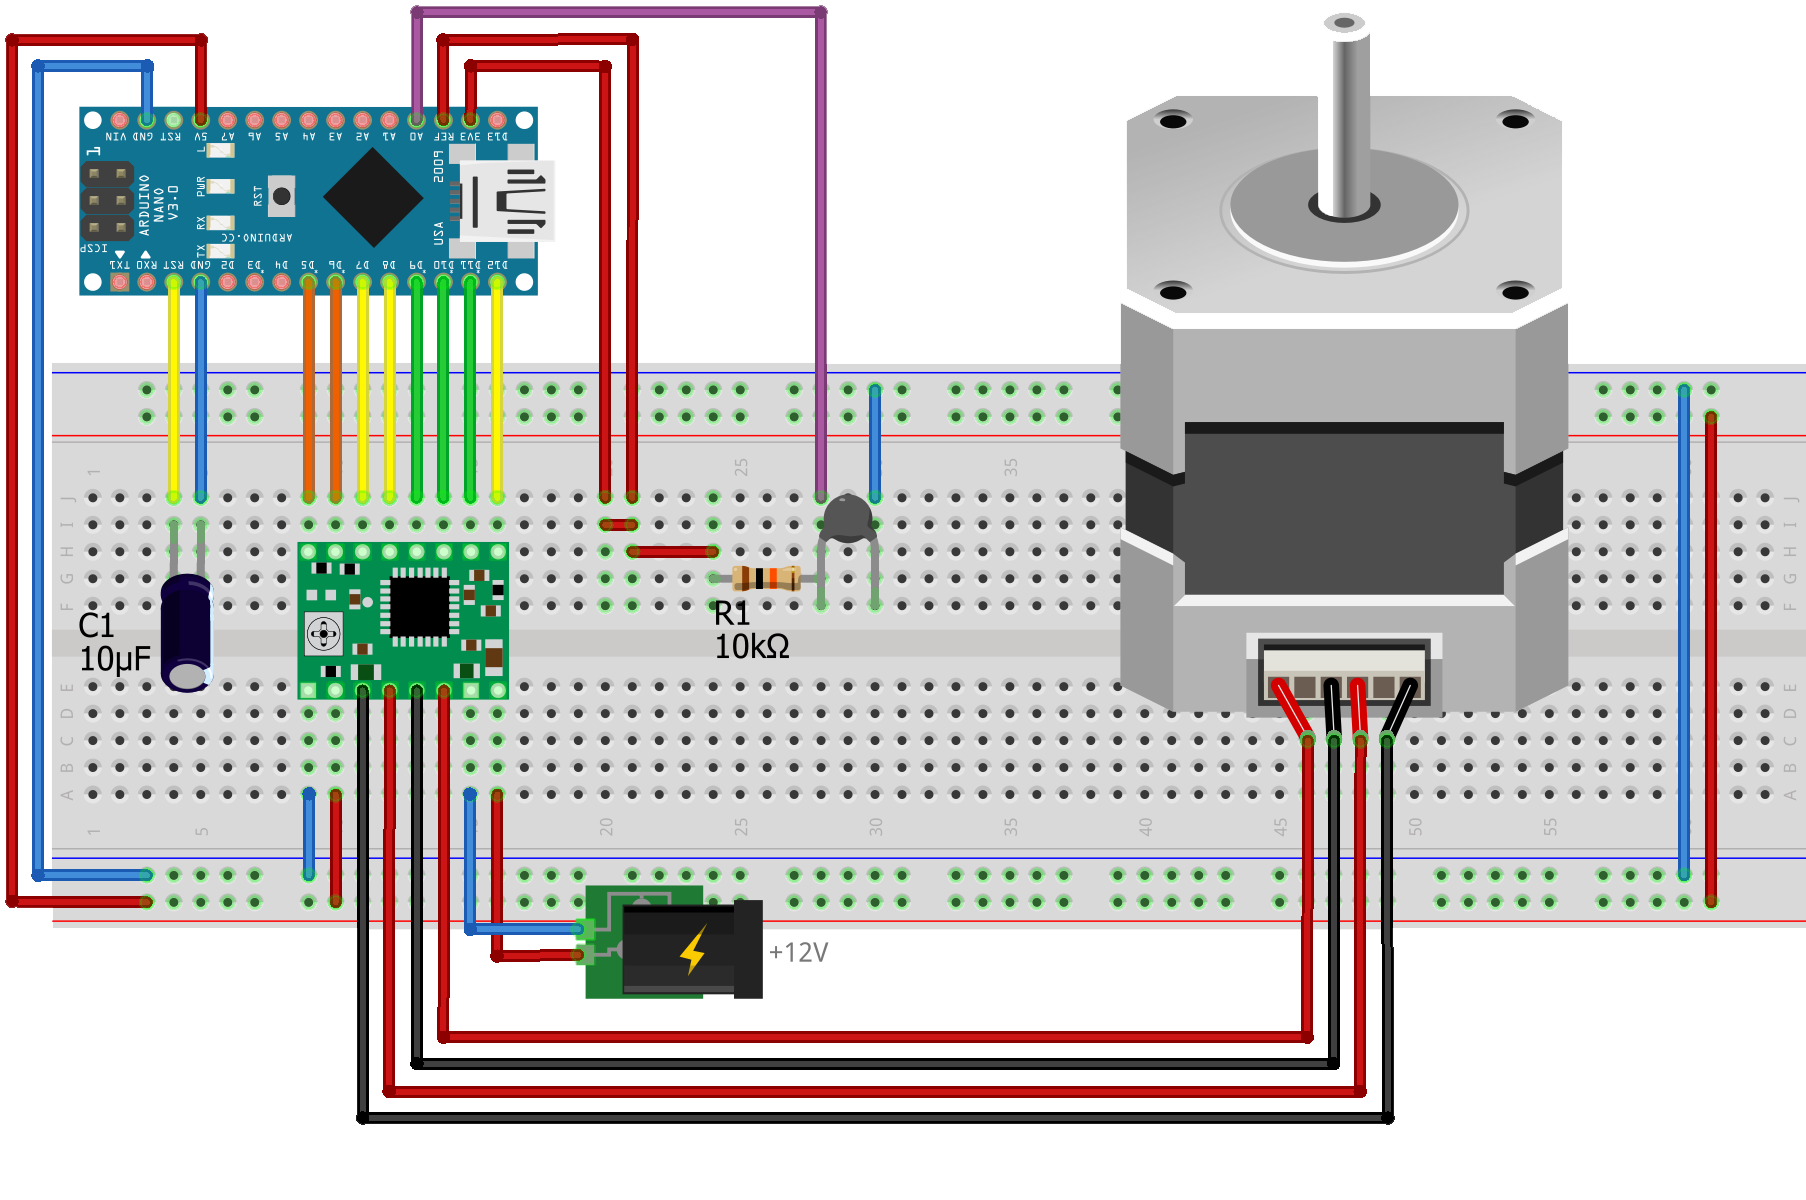
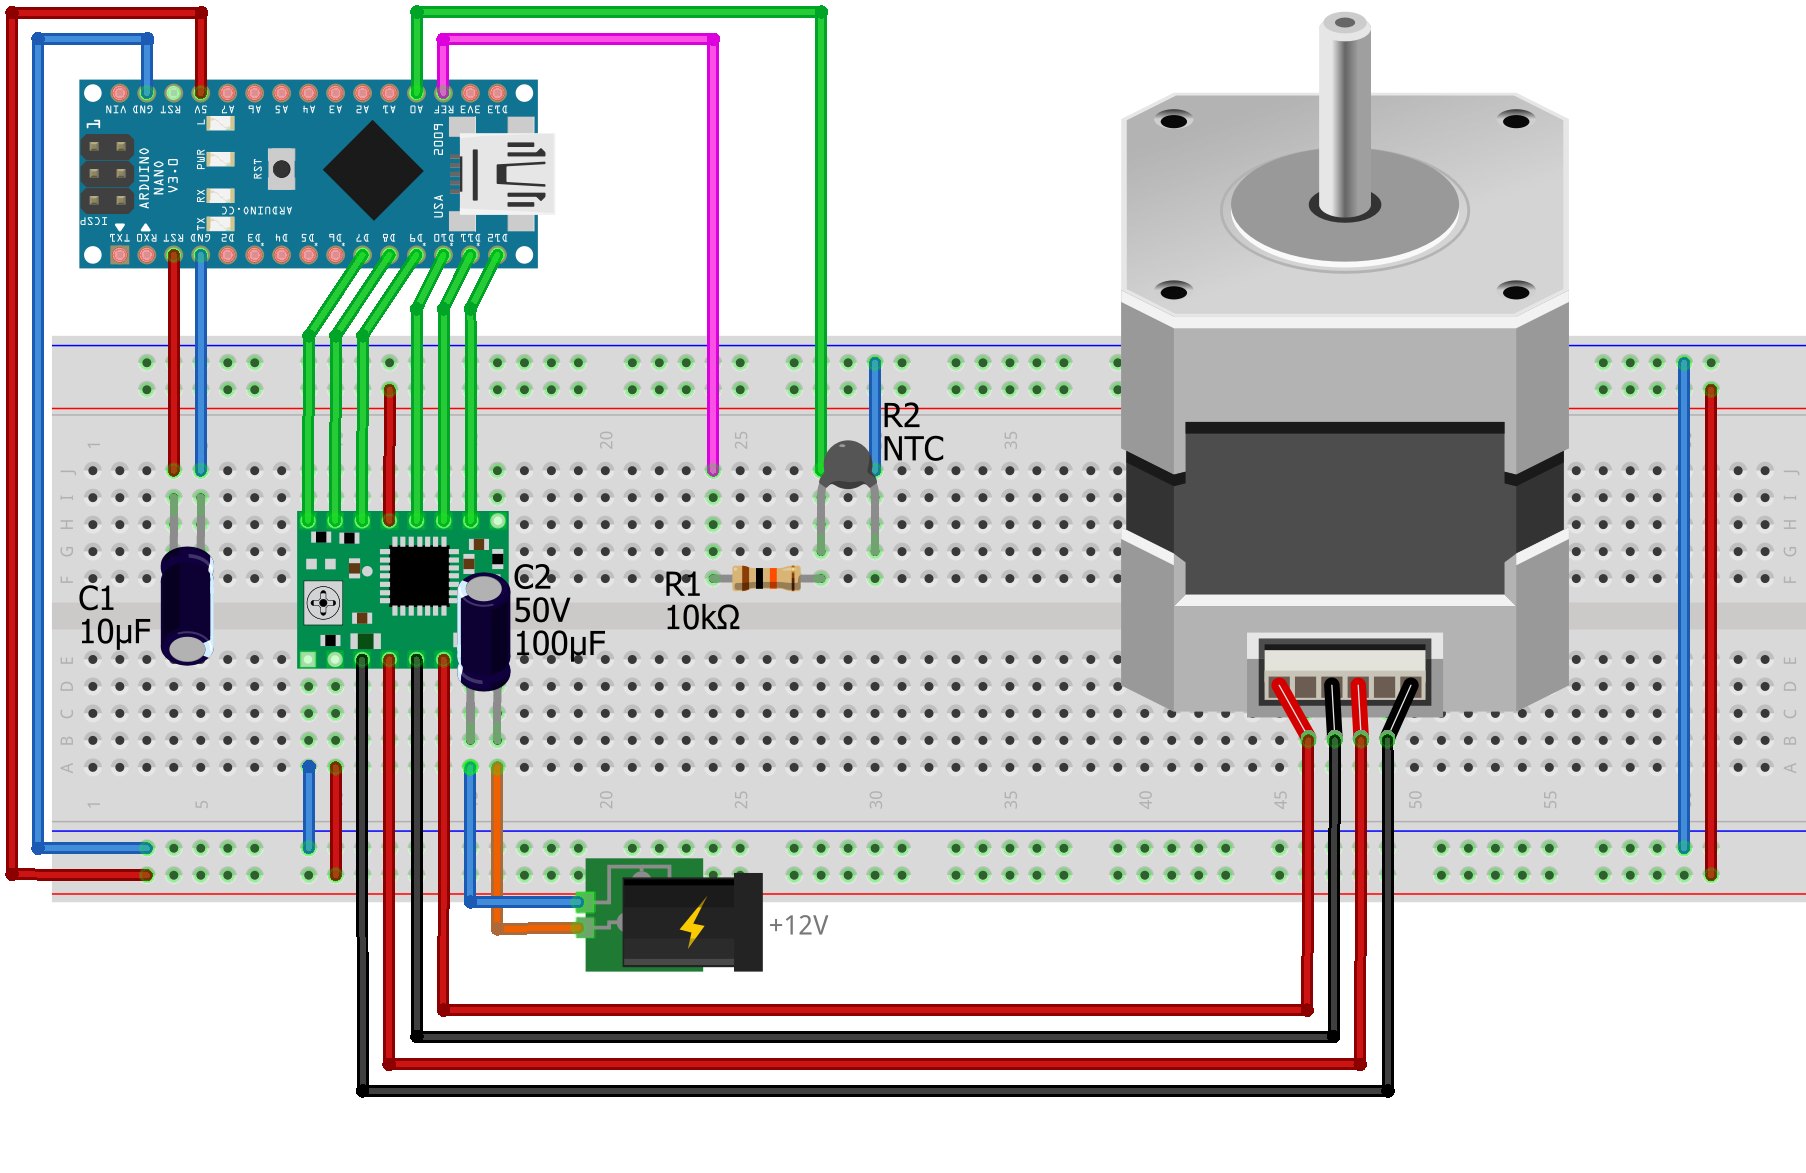
Update the documentation

diff --git a/README.md b/README.md
@@ -2,8 +2,6 @@
 
 [![Donate](https://img.shields.io/badge/donate-a_beer-red.svg)](https://www.paypal.com/cgi-bin/webscr?cmd=_s-xclick&hosted_button_id=D5XZ7QFLP8LXE) [![Build Status](https://travis-ci.org/jbrazio/ardufocus.svg?branch=master)](https://travis-ci.org/jbrazio/ardufocus) [![GitHub issues](https://img.shields.io/github/issues/jbrazio/ardufocus.svg)](https://github.com/jbrazio/ardufocus/issues) [![GitHub stars](https://img.shields.io/github/stars/jbrazio/ardufocus.svg)](https://github.com/jbrazio/ardufocus/stargazers) [![GitHub forks](https://img.shields.io/github/forks/jbrazio/ardufocus.svg)](https://github.com/jbrazio/ardufocus/network) [![Download beta](https://img.shields.io/badge/download-latest_beta-yellow.svg)](https://github.com/jbrazio/ardufocus/archive/master.zip)
 
-
-
 Ardufocus is a full open source [Moonlite][moonlite] compatible automatic focus controller.
 The source is still under heavy development so things move around a bit.
 
@@ -43,7 +41,8 @@ I have no issues driving an ASI1600MMC-Cool with a ZWO EFW8 and a 0.85x field fl
 
 Common components:
 - 1x [Arduino Nano]
-- 1x [Electrolytic capacitor 10uF]
+- 1x [Electrolytic capacitor 10uF 25V]
+- 1x [Electrolytic capacitor 100uF 50V]
 - 1x [NTC 10K]
 - 1x [Resistor 1/4W 10K]
 - 1x [DC Power connector] (male, female pair)
@@ -63,7 +62,8 @@ To connect your controller box to the motor you have two main options, either yo
 - 1x [GX12-4] or [GX12-5] connector (male, female pair): This will allow the cable to be connected to the controller box.
 
 [Arduino Nano]: https://www.banggood.com/3Pcs-ATmega328P-Arduino-Compatible-Nano-V3-Improved-Version-No-Cable-p-1047429.html?p=6K0304655364201407WG
-[Electrolytic capacitor 10uF]: https://www.banggood.com/10Pcs-50V-2200UF-16-X-25mm-Electrolytic-Capacitor-p-1019934.html?p=6K0304655364201407WG
+[Electrolytic capacitor 10uF 25V]: https://www.banggood.com/100pcs-0_1uF-100uF-10V-50V-10Value-Electrolytic-Capacitor-Assortment-Kit-Set-p-1085572.html?p=6K0304655364201407WG
+[Electrolytic capacitor 100uF 50V]:https://www.banggood.com/120pcs-15-Value-50V-Electrolytic-Capacitor-1UF-2200UF-Assortment-Kit-p-1073956.html?p=6K0304655364201407WG
 [NTC 10K]: https://www.banggood.com/10pcs-NTC-Thermistor-Temperature-Sensor-10K-OHM-MF52-103-3435-1-p-932790.html?p=6K0304655364201407WG
 [Resistor 1/4W 10K]: https://www.banggood.com/Wholesale-600pcs-30-Kinds-Value-Metal-Film-Resistor-Assorted-Kit-20pcs-Each-Value-p-53320.html?p=6K0304655364201407WG
 [DC Power connector]: https://www.banggood.com/1Pc-DC-Power-Jack-Socket-Power-Outlet-Power-Socket-Female-Panel-Mount-Connector-p-1177643.html?p=6K0304655364201407WG
@@ -106,11 +106,16 @@ Download objects:
 
 ## Schematic and wiring
 
+### THIS IS AN IMPORTANT NOTICE
+The wiring of the focuser has changed since commit [8375767], you should remove any physical conections between the **AREF** and the **3.3V** pin, not doing so may damage your board.
+
+[8375767]: https://github.com/jbrazio/ardufocus/commit/8375767da8008305e1cb2a93d049970c49c1482d
+
 ### A4988 driver with a Bipolar motor
 ![Bipolar](https://github.com/jbrazio/ardufocus/blob/master/doc/wiki/schematic-bipolar_bb.png)
 [Download the bipolar schematic](https://github.com/jbrazio/ardufocus/blob/master/doc/wiki/schematic-bipolar_schem.png)
 
-To use this configuration you must edit the `ardufocus.h` file:
+To use this configuration you must edit the `config.h` file:
 ``` cpp
 // You should only enable *ONE* of the following drivers
 // The ULN2003 shall be used with the unmodded version of 28BYJ-48 or any other
